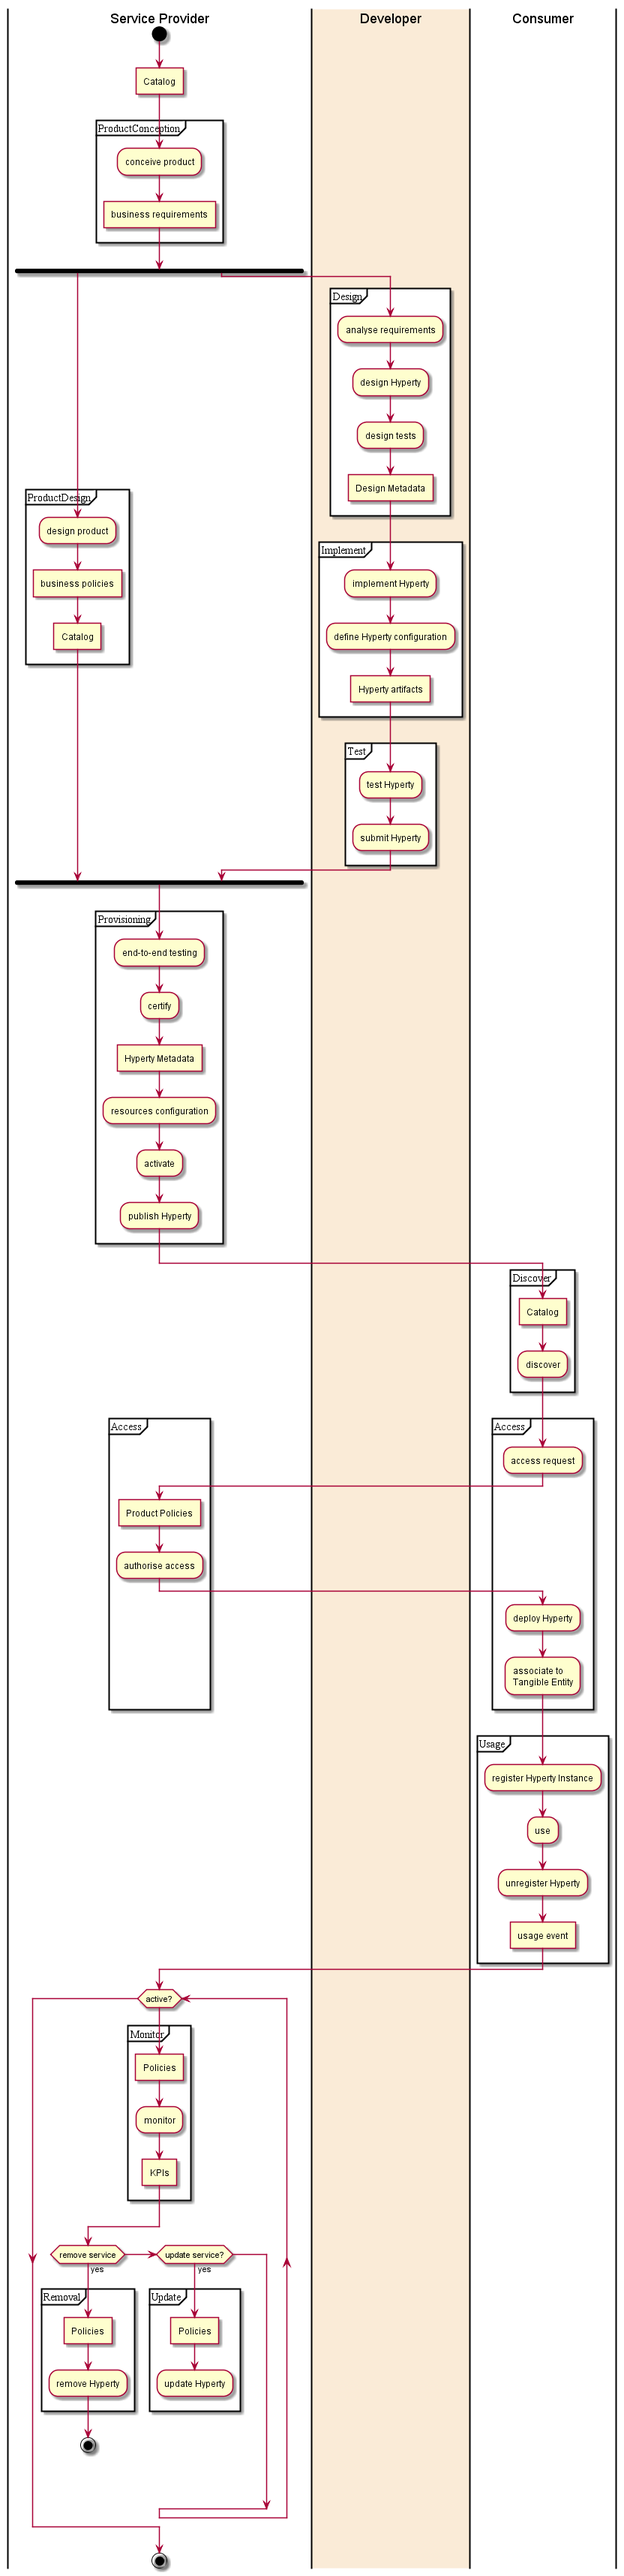
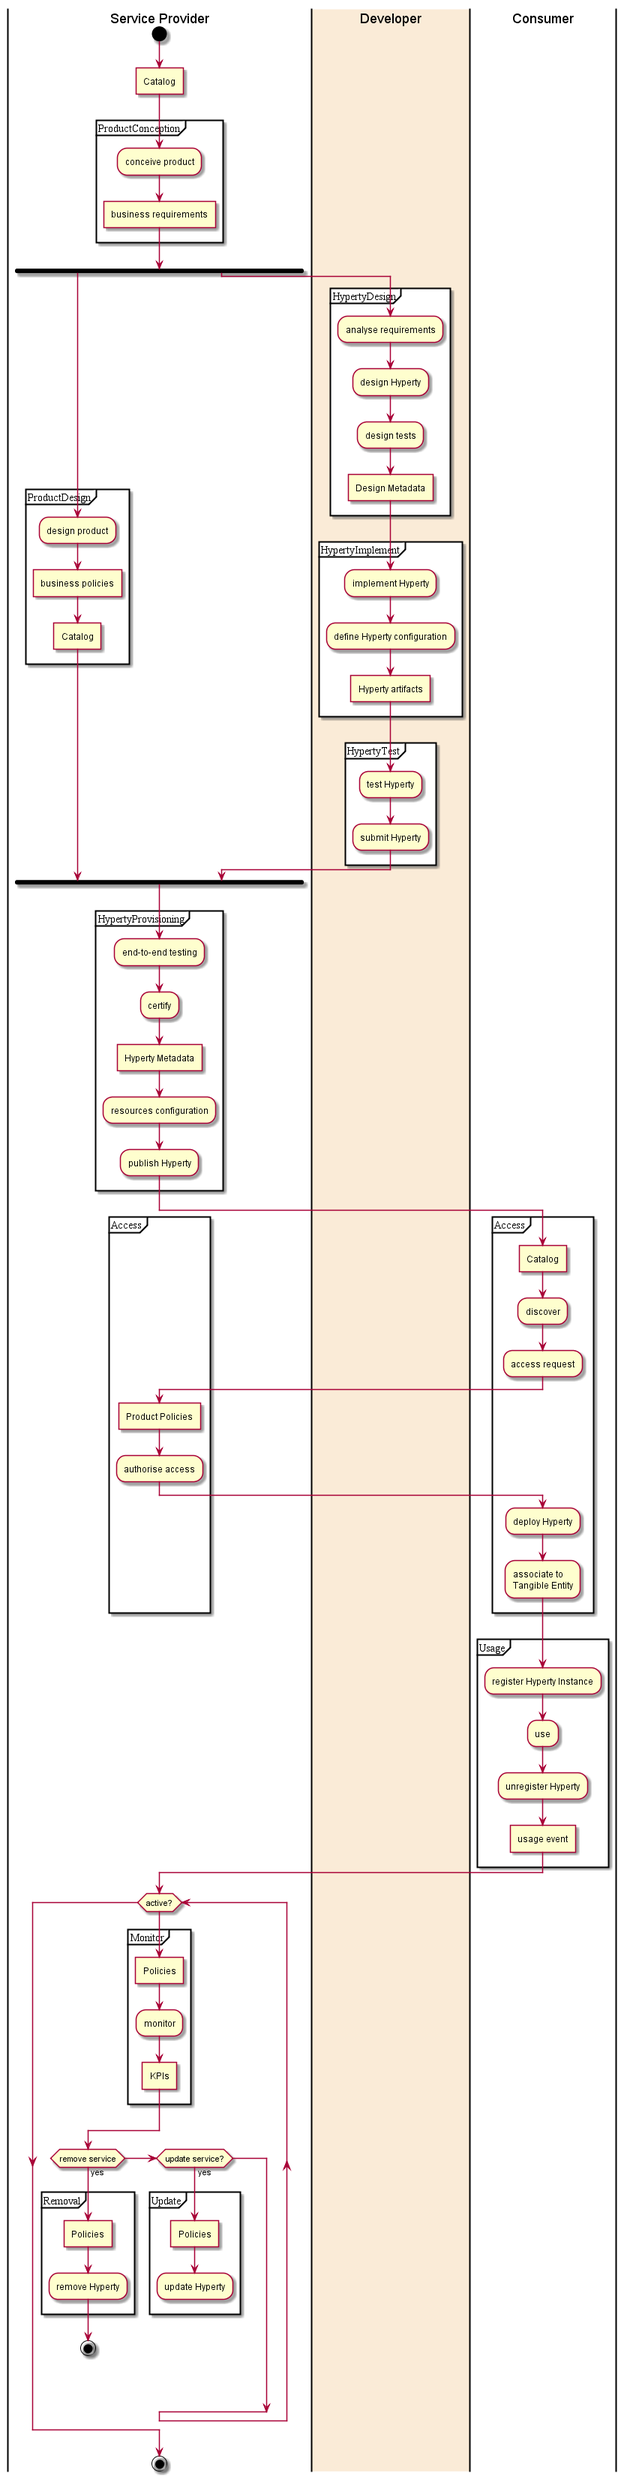
Initial description of hyperty life-cycle

diff --git a/docs/D1.1/business processes/hyperty-life-cycle.md b/docs/D1.1/business processes/hyperty-life-cycle.md
@@ -1,5 +1,172 @@
 ## Hyperty Life-cycle
 
+### Product Conception
+The Product Manager specifies the purpose, functionalities and requirements to be fulfilled by the new Hyperty.
+
+The product concept is described by reusing as much as possible existing requirements and product concepts e.g. directories, tags, etc
+
+According to feedback received from technical designers the Product Manager may have to update the product concept description. (this workflow is not illustrate)
+
+<!-- 1.	Product Manager accesses the SCE with his credentials that are associated to a certain Product Management role 
+2.	Product Manager is able to discover the product Catalogue to check if the requested product is a new one and to receive recommendations about similar products to help him/her in the product conception
+3.	The product is specified by using as much as possible tools that facilitate reuse of product concepts e.g. directories, tags, etc and it should define at least the following information and requirements types (more information is needed for business reasons but they are not relevant for the project purposes):
+a.	Unique product name.
+b.	Product description.
+c.	Tangible Entities to be associated with.
+d.	Data needed. 
+e.	Processes needed. 
+
+4.	Existing and new Tangible Entities needed are identified. 
+
+5.	After successful validation, the Product Catalogue Manager registers the Product Concept into the Product Catalogue.
+-->
+
+**Input**
+
+The following input is needed:
+•	Product Catalogue
+•	Tangible Entities Catalogue
+
+**Output**
+
+Business requirements are defined.
+
+**Automation analysis**
+
+Semi-automation may be possible with assisting tools providing advanced search features on existing concepts and requirements.
+
+### Product Design
+
+The Product Manager designs the Hyperty offer by specifying Business Policies to be applied to the Hyperty.
+
+The product business policies are designed by reusing as much as possible existing business policies.  
+The following types of policies should be considered:
+*	Access Control
+*	Performance (QoS, QoE) - Definition of SLAs per Hyperty (e.g. latency). Definition of Rules to be used to generate KPIs reports to measure SLAs fulfillment
+*	Billing - revenue model that Provider wants to put in place, with or without partners (consolidate with Partnership Model). Definition of the value chain. Who will pay resources like sensors, or network side resources like media servers or big data services? Who will pay for the service: the end-user, some advertiser, the government?
+
+
+**Input**
+
+* Applicable Business Reference Data (e.g. product access constraints, performance, customer care, revenue sharing among partners, Draft Pricing / Charging Matrix and rules etc...)
+* Business Policies Catalogue.
+
+**Output**
+
+Hyperty Business Policies to Support Hyperties delivery are defined and Product Catalogue is Updated
+
+**Automation analysis**
+
+Semi-automation may be possible with assisting tools providing advanced search features on existing business policies.
+
+### Hyperty Design
+
+Developer or Designer validates and specify in detail how the Hyperty will comply with the Business requirements. 
+
+This specification should reuse as much as possible existing Hyperties specifications, including unit tests, that can be cloned or extended as a design starting point.
+
+After successful validation, the Hyperty Design Metadata is published into the Service Catalogue.
+
+**Note**
+
+During this activity it should be identified the need to use new Hyperty Message types or to extend existing Message Types with new data fields.
+In case there is a business requirement to ensure cross domain interoperability, this would imply to perform a Hyperty Message Standardisation activity involving some Standardisation authority. In this initial version, such activity is not specified.
+
+**Input**
+
+The following input is needed:
+•	Product Requirements defined by Product Analysts
+•	Hyperty Catalogue
+
+**Output**
+
+•	Hyperty Design Metadata with detailed specification of the Hyperty and associated tests
+
+**Automation analysis**
+
+Semi-automation may be possible with assisting tools providing advanced search features on existing Hyperties Metadata design catalogue. 
+Full automation is possible in case there is no need to develop a new Hyperty.
+
+### Hyperty Implementation
+
+The Developer validates Hyperty Design Metadata and develops the Hyperty by reusing as much as possible existing Hyperties source code that may be extended or cloned as a development starting point.
+
+**Input**
+
+•	Hyperty Design Metadata
+•	Hyperty Catalogue
+
+**Output**
+
+•	Hyperty Artifacts including source code, test cases and hyperty configuration data
+•	Updated Hyperty Catalogue
+
+**Automation analysis**
+
+Semi-automation may be possible with assisting tools providing advanced search features on existing Hyperty catalogue. 
+Full automation may also be possible depending on the Hyperty complexity by reusing reusable Hyperty components (to be validated in T3.4).
+
+### Hyperty Testing
+
+Hyperty is tested according to executable test cases provided during Hyperty implementation. As soon as all test cases are successful, the Hyperty is submitted to be approved by the Service Provider.
+
+**input**
+
+* Hyperty artifacts including executable test cases
+
+**output**
+
+* testing reports
+
+**Automation analysis**
+
+Full automation of Hyperty testing should be possible.
+
+### Hyperty Provisioning
+
+Service Provider validates submitted Hyperty by performing end-to-end tests including Non-functional tests according to associated business policies notably Security policies and SLAs to be signed between Service Providers and the Consumer.
+Therefore, the Service Provider has to assure that he can provide a specified level of robustness and QoS under different behaviour conditions. 
+
+As soon as the Hyperty is succesfuly tested by the Service Provider, it will be certified as ready to be provisioned by creating the different deployable packages targeting different runtime environments as defined in the Business Requirments.
+
+The Service binding is defined in terms of protocols, APIs, addresses, etc. notably for its components. The service is packaged and the runtime environment type is chosen according to Non-functional/business policies requirements (e.g. load, performance, etc.) and availability of dependencies on Service Capabilities and Service Support.
+
+Support Services and Systems required by the Hyperty operation will be provisioned and configured according to technical dependencies (e.g. data storage) and business constraints (e.g. network and computing load forecast, charging and identity management policies).
+
+Finaly, Hyperty is published in the Hyperty Catalogue as ready to be consumed.
+
+**Input**
+
+* Design Metadata
+* Developed artifacts (e.g. source, binary files)
+* Business Policies
+
+**Output**
+
+* end-to-end reports
+* Hyperty Certification
+* Deployable Packages
+* Resources configured
+* Operation Metadata
+* Product and Hyperty catalogue updated
+
+**Automation analysis**
+
+Hyperty provisioning should be as much as possible automated. However, it is recommended to have the Hyperty certification activity approved and signed by an authorised Human.
+
+### Access
+
+As soon as the Hyperty is published in the Hyperty Catalogue it is discoverable to be consumed by end-users applications.
+
+**Note:** According to Hyperty concept (see ?), Hyperties are services and not applications. I.e. Hyperties are not directly consumed by End-user Consumers but by Applications (i.e. other software programs). The life-cycle of Applications that consume Hyperties are out-scope of this task. However, the need to consider in the Hyperty life-cycle activities to support the registration of Applications consuming Hyperties should be further studied.
+
+Access to Hyperties should be subject to authorisation mechanism according to associated access control policies defined by the service provider.
+
+If access is granted, Hyperty is deployed into user device runtime, instantiated and securely associated to a Tangible Entity (in some cases this might not be needed eg for network side hyperties. To be further studied).
+
+
+
+
 <!--
 @startuml "hyperty-life-cycle.png"
 
@@ -20,43 +187,40 @@ partition ProductDesign {
 	fork again
 
 |#AntiqueWhite|Developer|
-partition Design {
+partition HypertyDesign {
 	:analyse requirements;
     :design Hyperty;
     :design tests;
     :Design Metadata]
 }
 
-partition Implement {
+partition HypertyImplement {
     :implement Hyperty;
     :define Hyperty configuration;
     :Hyperty artifacts]
 }
 
-partition Test {
+partition HypertyTest {
     :test Hyperty;
     :submit Hyperty;
 }
 
 |Service Provider|
     end fork
-partition Provisioning {
+partition HypertyProvisioning {
 	:end-to-end testing;
 	:certify;
 	:Hyperty Metadata]
 	:resources configuration;
-	:activate;
 	:publish Hyperty;
 	}
 
 |#LightRed|Consumer|
-partition Discover {
-	:Catalog]
-	:discover;
-	}
-
 
 partition Access {
+	:Catalog]
+	:discover;
+
 	:access request;
 
 	|Service Provider|
